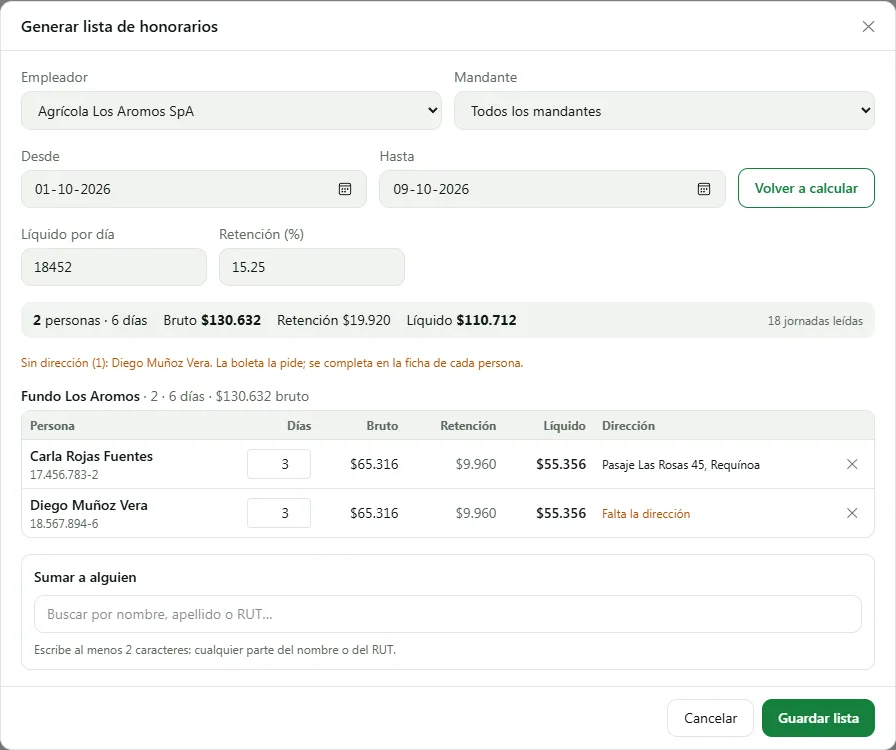
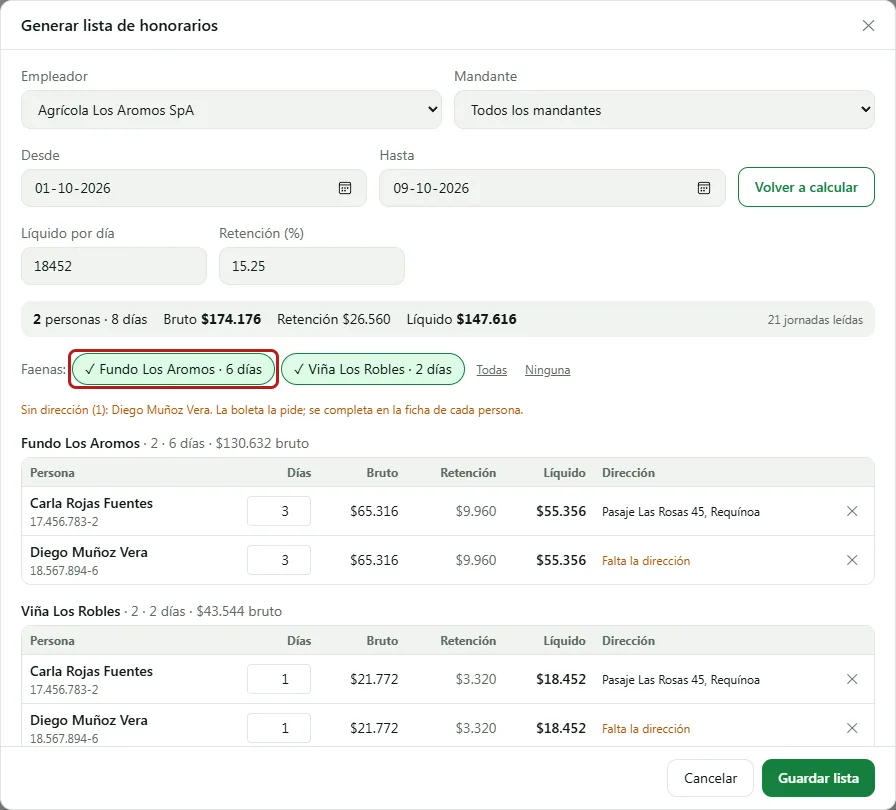
faenaPickerInLists

diff --git a/src/screens/workers/GenerateContributionListModal.jsx b/src/screens/workers/GenerateContributionListModal.jsx
@@ -6,8 +6,9 @@ import { loadWorkedDays } from "../../services/employmentsService";
 import { contributionListsService } from "../../services/contributionListsService";
 import { localIsoDate } from "../../utils/dates";
 import { contributionRows, monthRange } from "../../utils/employment";
-import { buildContributionItems, contributionItemKey, contributionTotals, monthTitle } from "../../utils/contributionLists";
+import { buildContributionItems, contributionItemKey, contributionTotals, contributionsByFaena, monthTitle } from "../../utils/contributionLists";
 import ContributionItemsTable from "./ContributionItemsTable";
+import FaenaPicker from "./FaenaPicker";
 
 const inputCls =
   "w-full rounded-md border border-[var(--color-border)] bg-[var(--color-surface-2)] px-3 py-2 text-sm outline-none focus:border-[var(--color-accent)]";
@@ -21,14 +22,18 @@ function previousMonth(today) {
 // Generar la lista de imposiciones de un mes: quienes tuvieron contrato con el
 // empleador (y el mandante, si se elige uno) ese mes, una fila por faena con
 // sus días trabajados (dentro del período del contrato), y la liquidación con
-// finiquito si el contrato terminó ese mes. Los días se editan, las filas se
-// quitan y se puede sumar a alguien.
+// finiquito si el contrato terminó ese mes. Los días se editan, las filas y
+// las faenas enteras se quitan y se puede sumar a alguien.
 export default function GenerateContributionListModal({ employers, principals, onClose, onSaved }) {
   const { workers } = useWorkersList();
   const [employerId, setEmployerId] = useState("");
   const [principalId, setPrincipalId] = useState("");
   const [month, setMonth] = useState(() => previousMonth(localIsoDate()));
   const [items, setItems] = useState(null);
+  // Las faenas que quedan fuera de la lista (`faenaId`; "" es "Sin días
+  // trabajados").
+  const [excluded, setExcluded] = useState(() => new Set());
+  const shown = items ? items.filter((it) => !excluded.has(it.faenaId || "")) : null;
   const [faenas, setFaenas] = useState([]);
   const [reads, setReads] = useState(0);
   const [adding, setAdding] = useState({ worker: null, faenaId: "", days: 1 });
@@ -72,6 +77,12 @@ export default function GenerateContributionListModal({ employers, principals, o
       endReason: null,
     };
     setItems((list) => [...list.filter((it) => contributionItemKey(it) !== contributionItemKey(item)), item]);
+    setExcluded((prev) => {
+      if (!prev.has(item.faenaId)) return prev;
+      const next = new Set(prev);
+      next.delete(item.faenaId);
+      return next;
+    });
     setAdding({ worker: null, faenaId: "", days: 1 });
   };
 
@@ -82,8 +93,8 @@ export default function GenerateContributionListModal({ employers, principals, o
       principalId,
       principalName: principal?.name || "",
       month,
-      items,
-      totals: contributionTotals(items),
+      items: shown,
+      totals: contributionTotals(shown),
       sentAt: "",
     };
     setBusy("save");
@@ -96,7 +107,7 @@ export default function GenerateContributionListModal({ employers, principals, o
     }
   };
 
-  const totals = items ? contributionTotals(items) : null;
+  const totals = shown ? contributionTotals(shown) : null;
 
   return (
     <Modal
@@ -110,7 +121,7 @@ export default function GenerateContributionListModal({ employers, principals, o
           <ModalCloseButton disabled={!!busy} className="rounded-md border border-[var(--color-border)] px-4 py-2 text-sm hover:bg-[var(--color-surface-2)]">
             Cancelar
           </ModalCloseButton>
-          <button type="button" onClick={save} disabled={!!busy || !items?.length} className="rounded-md bg-[var(--color-accent)] px-4 py-2 text-sm font-medium text-[var(--color-accent-fg)] disabled:opacity-60">
+          <button type="button" onClick={save} disabled={!!busy || !shown?.length} className="rounded-md bg-[var(--color-accent)] px-4 py-2 text-sm font-medium text-[var(--color-accent-fg)] disabled:opacity-60">
             {busy === "save" ? "Guardando…" : "Guardar lista"}
           </button>
         </>
@@ -151,13 +162,18 @@ export default function GenerateContributionListModal({ employers, principals, o
               {totals.settlements > 0 && <span className="text-[var(--color-warning)]">{totals.settlements} con finiquito</span>}
               <span className="ml-auto text-xs text-[var(--color-muted)]">{reads} jornadas leídas</span>
             </div>
+            <FaenaPicker groups={contributionsByFaena(items)} excluded={excluded} onChange={setExcluded} />
             {items.length === 0 ? (
               <p className="rounded-md border border-dashed border-[var(--color-border)] py-6 text-center text-sm text-[var(--color-muted)]">
                 Nadie tuvo contrato con {employer?.name || "ese empleador"}
                 {principal ? ` para ${principal.name}` : ""} en {monthTitle(month)}.
               </p>
+            ) : shown.length === 0 ? (
+              <p className="rounded-md border border-dashed border-[var(--color-border)] py-6 text-center text-sm text-[var(--color-muted)]">
+                Todas las faenas quedaron fuera: elige al menos una.
+              </p>
             ) : (
-              <ContributionItemsTable items={items} editable onChange={change} onRemove={remove} />
+              <ContributionItemsTable items={shown} editable onChange={change} onRemove={remove} />
             )}
             <div className="rounded-md border border-[var(--color-border)] p-3">
               <div className="mb-2 text-sm font-medium">Sumar a alguien</div>

diff --git a/src/screens/workers/GenerateFeeListModal.jsx b/src/screens/workers/GenerateFeeListModal.jsx
@@ -6,8 +6,9 @@ import { loadWorkedDays } from "../../services/employmentsService";
 import { feeListsService, getEmploymentConfig } from "../../services/feeListsService";
 import { localIsoDate } from "../../utils/dates";
 import { feeRows } from "../../utils/employment";
-import { buildFeeListItems, feeItem, feeItemKey, feeListTotals, missingAddress } from "../../utils/feeLists";
+import { buildFeeListItems, feeItem, feeItemKey, feeListTotals, itemsByFaena, missingAddress } from "../../utils/feeLists";
 import { fmtCurrency } from "../../utils/format";
+import FaenaPicker from "./FaenaPicker";
 import FeeItemsTable from "./FeeItemsTable";
 
 const inputCls =
@@ -17,9 +18,9 @@ const monthStart = (today) => `${today.slice(0, 7)}-01`;
 
 // Generar una lista de honorarios: el empleador, el mandante (o todos) y el
 // rango de fechas arman una fila por persona y faena con los días que trabajó
-// a honorarios con ese empleador. Los días se editan, las filas se quitan y se
-// puede sumar a alguien. La tarifa y la retención vienen de la configuración
-// y se pueden cambiar para esta lista.
+// a honorarios con ese empleador. Los días se editan, las filas y las faenas
+// enteras se quitan y se puede sumar a alguien. La tarifa y la retención
+// vienen de la configuración y se pueden cambiar para esta lista.
 export default function GenerateFeeListModal({ employers, principals, onClose, onSaved }) {
   const today = localIsoDate();
   const { workers } = useWorkersList();
@@ -30,6 +31,9 @@ export default function GenerateFeeListModal({ employers, principals, onClose, o
   const [dailyNet, setDailyNet] = useState("");
   const [ratePct, setRatePct] = useState("");
   const [items, setItems] = useState(null);
+  // Las faenas que quedan fuera de la lista (`faenaId`).
+  const [excluded, setExcluded] = useState(() => new Set());
+  const shown = items ? items.filter((it) => !excluded.has(it.faenaId || "")) : null;
   const [faenas, setFaenas] = useState([]);
   const [reads, setReads] = useState(0);
   const [adding, setAdding] = useState({ worker: null, faenaId: "", days: 1 });
@@ -88,11 +92,17 @@ export default function GenerateFeeListModal({ employers, principals, onClose, o
       rate,
     );
     setItems((list) => [...list.filter((it) => feeItemKey(it) !== feeItemKey(item)), item]);
+    setExcluded((prev) => {
+      if (!prev.has(item.faenaId)) return prev;
+      const next = new Set(prev);
+      next.delete(item.faenaId);
+      return next;
+    });
     setAdding({ worker: null, faenaId: "", days: 1 });
   };
 
   const save = async () => {
-    const kept = items.filter((it) => it.days > 0);
+    const kept = shown.filter((it) => it.days > 0);
     const data = {
       employerId,
       employerName: employer?.name || "",
@@ -116,8 +126,8 @@ export default function GenerateFeeListModal({ employers, principals, onClose, o
     }
   };
 
-  const totals = items ? feeListTotals(items) : null;
-  const noAddress = items ? missingAddress(items) : [];
+  const totals = shown ? feeListTotals(shown) : null;
+  const noAddress = shown ? missingAddress(shown) : [];
   const ready = employerId && from && to && from <= to && net > 0;
 
   return (
@@ -135,7 +145,7 @@ export default function GenerateFeeListModal({ employers, principals, onClose, o
           <button
             type="button"
             onClick={save}
-            disabled={!!busy || !items?.some((it) => it.days > 0)}
+            disabled={!!busy || !shown?.some((it) => it.days > 0)}
             className="rounded-md bg-[var(--color-accent)] px-4 py-2 text-sm font-medium text-[var(--color-accent-fg)] disabled:opacity-60"
           >
             {busy === "save" ? "Guardando…" : "Guardar lista"}
@@ -195,6 +205,7 @@ export default function GenerateFeeListModal({ employers, principals, onClose, o
               <span>Líquido <b>{fmtCurrency(totals.net)}</b></span>
               <span className="ml-auto text-xs text-[var(--color-muted)]">{reads} jornadas leídas</span>
             </div>
+            <FaenaPicker groups={itemsByFaena(items)} excluded={excluded} onChange={setExcluded} />
             {noAddress.length > 0 && (
               <p className="text-xs text-[var(--color-warning)]">
                 Sin dirección ({noAddress.length}): {noAddress.join(", ")}. La boleta la pide; se completa en la ficha de cada persona.
@@ -205,8 +216,12 @@ export default function GenerateFeeListModal({ employers, principals, onClose, o
                 Nadie trabajó a honorarios con {employer?.name || "ese empleador"}
                 {principal ? ` para ${principal.name}` : ""} en esas fechas.
               </p>
+            ) : shown.length === 0 ? (
+              <p className="rounded-md border border-dashed border-[var(--color-border)] py-6 text-center text-sm text-[var(--color-muted)]">
+                Todas las faenas quedaron fuera: elige al menos una.
+              </p>
             ) : (
-              <FeeItemsTable items={items} mode="draft" onChange={change} onRemove={remove} />
+              <FeeItemsTable items={shown} mode="draft" onChange={change} onRemove={remove} />
             )}
             <div className="rounded-md border border-[var(--color-border)] p-3">
               <div className="mb-2 text-sm font-medium">Sumar a alguien</div>

diff --git a/src/screens/workers/FaenaPicker.jsx b/src/screens/workers/FaenaPicker.jsx
@@ -1,0 +1,43 @@
+// Las faenas de una lista que se está generando: cada una se saca o se vuelve
+// a poner de un toque, sin perder lo editado en sus filas. `groups` son los
+// grupos por faena de la lista entera y `excluded`, los ids de las que quedan
+// fuera ("" es el grupo sin faena).
+export default function FaenaPicker({ groups, excluded, onChange }) {
+  if (groups.length < 2) return null;
+  const toggle = (id) => {
+    const next = new Set(excluded);
+    if (next.has(id)) next.delete(id);
+    else next.add(id);
+    onChange(next);
+  };
+  const link = "min-h-8 px-1.5 text-xs text-[var(--color-muted)] underline hover:text-[var(--color-fg)]";
+  return (
+    <div className="flex flex-wrap items-center gap-1.5 text-sm">
+      <span className="text-[var(--color-muted)]">Faenas:</span>
+      {groups.map((g) => {
+        const on = !excluded.has(g.faenaId);
+        return (
+          <button
+            key={g.faenaId}
+            type="button"
+            aria-pressed={on}
+            onClick={() => toggle(g.faenaId)}
+            className={`min-h-8 rounded-full border px-3 py-1 ${
+              on
+                ? "border-[var(--color-accent)] bg-[var(--color-accent-soft)]"
+                : "border-[var(--color-border)] text-[var(--color-muted)] line-through"
+            }`}
+          >
+            {on ? "✓" : "✕"} {g.faenaName} · {g.totals.days} día{g.totals.days === 1 ? "" : "s"}
+          </button>
+        );
+      })}
+      <button type="button" onClick={() => onChange(new Set())} className={link}>
+        Todas
+      </button>
+      <button type="button" onClick={() => onChange(new Set(groups.map((g) => g.faenaId)))} className={link}>
+        Ninguna
+      </button>
+    </div>
+  );
+}

diff --git a/src/screens/help/guides.test.js b/src/screens/help/guides.test.js
@@ -102,6 +102,8 @@ describe("preguntas típicas", () => {
     ["cómo hago las boletas de honorarios", "contratos#generar-la-lista-de-honorarios"],
     ["anotar el folio de la boleta", "contratos#anotar-las-boletas-emitidas"],
     ["cómo hago las imposiciones", "contratos#generar-la-lista-de-imposiciones-del-mes"],
+    ["honorarios de una sola faena", "contratos#generar-la-lista-de-honorarios"],
+    ["imposiciones de una sola faena", "contratos#generar-la-lista-de-imposiciones-del-mes"],
     ["mandar las imposiciones al contador", "contratos#enviar-las-imposiciones-al-contador"],
     ["olvidé mi contraseña", "primeros-pasos#entrar-a-terra"],
     ["cómo pongo el modo oscuro", "primeros-pasos#cambiar-los-colores"],

diff --git a/docs/screens/workers.md b/docs/screens/workers.md
@@ -40,7 +40,7 @@
 ## Listas de honorarios
 
 - **Pestaña 🧾 Honorarios** (`screens/workers/FeeListsTab.jsx`): las listas generadas (`feeLists`), de la más nueva a la más antigua, con cuántas boletas lleva emitidas cada una.
-- **+ Generar lista** (`GenerateFeeListModal`): el empleador, el mandante (o todos) y el rango arman una fila por persona y faena con los días que trabajó a honorarios con ese empleador, en los períodos de ese mandante (`feeRows`, `utils/employment.js`). La lista guarda el mandante y se nombra con el empleador y el mandante (`listCompanyLabel`), también en el Excel. Los días se editan, las filas se quitan y se puede sumar a alguien con su faena. Avisa a quién le falta la dirección, que la boleta pide.
+- **+ Generar lista** (`GenerateFeeListModal`): el empleador, el mandante (o todos) y el rango arman una fila por persona y faena con los días que trabajó a honorarios con ese empleador, en los períodos de ese mandante (`feeRows`, `utils/employment.js`). La lista guarda el mandante y se nombra con el empleador y el mandante (`listCompanyLabel`), también en el Excel. Los días se editan, las filas se quitan y se puede sumar a alguien con su faena. Con varias faenas, **Faenas** (`FaenaPicker`) saca o vuelve a poner una faena entera, con Todas y Ninguna; lo que se guarda y los totales son las faenas que quedan. Avisa a quién le falta la dirección, que la boleta pide.
   - **Los días salen de las jornadas** (`loadWorkedDays`, `services/employmentsService.js`): un día cuenta si hay al menos una jornada, y un día con jornadas en dos faenas cuenta una vez, en la de mayor monto (`workedDays`). Solo cuentan los días dentro del período de honorarios de la persona. Las jornadas antiguas sin `workerId` se cruzan por su rut, también uno anterior (`workerIdResolver`, `utils/workerRut.js`).
   - **Cuesta una lectura por jornada del rango**, como el Calendario; el modal dice cuántas leyó.
 - **Montos**: tarifa líquida fija por día y retención (`employmentConfig/main`, por defecto $18.452 y 15,25%; ⚙ Tarifa, solo admin). El bruto por día se redondea y se multiplica, como la planilla: 3 días dan $65.316 bruto y $55.356 líquido (`feeAmounts`). La tarifa se puede cambiar para una lista, y cada lista guarda la suya.
@@ -49,7 +49,7 @@
 ## Listas de imposiciones
 
 - **Pestaña 🏛 Imposiciones** (`screens/workers/ContributionListsTab.jsx`): las listas generadas (`contributionLists`), una por empleador y mes, con si se enviaron al contador.
-- **+ Generar lista** (`GenerateContributionListModal`, propone el mes anterior): quienes tuvieron contrato con el empleador ese mes (y con el mandante, si se elige uno; la lista lo guarda), una fila por faena (el centro de costo) con sus días trabajados dentro del período del contrato (`contributionRows`, `utils/employment.js`; los días salen igual que en honorarios, con `loadWorkedDays`). Quien tuvo contrato y no trabajó va en "Sin días trabajados" con 0 días. Si el contrato terminó ese mes, la fila pide liquidación y finiquito, con la fecha y el motivo. Los días se editan, las filas se quitan y se puede sumar a alguien.
+- **+ Generar lista** (`GenerateContributionListModal`, propone el mes anterior): quienes tuvieron contrato con el empleador ese mes (y con el mandante, si se elige uno; la lista lo guarda), una fila por faena (el centro de costo) con sus días trabajados dentro del período del contrato (`contributionRows`, `utils/employment.js`; los días salen igual que en honorarios, con `loadWorkedDays`). Quien tuvo contrato y no trabajó va en "Sin días trabajados" con 0 días. Si el contrato terminó ese mes, la fila pide liquidación y finiquito, con la fecha y el motivo. Los días se editan, las filas se quitan, se puede sumar a alguien y se dejan solo algunas faenas (`FaenaPicker`, como en honorarios).
 - **Solo los días**: sueldo y bono los completa el contador; el Excel los deja en blanco.
 - **Una lista guardada** (`ContributionListModal`, con las filas en `ContributionItemsTable`): se baja en 📊 Excel (`writeContributionListXlsx.js`, una sección por faena como la planilla) y se marca enviada al contador con la fecha del día. Una lista sin enviar se puede eliminar. Las filas y los totales salen de `utils/contributionLists.js`, con tests.
 

diff --git a/src/screens/help/guides/contratos.md b/src/screens/help/guides/contratos.md
@@ -87,16 +87,16 @@ En la grilla del ciclo, **Por contrato** junta a las personas en **Con contrato*
 ![La grilla por contrato](help/contratos/09-grilla-por-contrato.webp)
 
 ## Generar la lista de honorarios
-<!-- preguntas: cómo hago las boletas de honorarios; lista de boletas; cuánto pagar a honorarios; calcular los honorarios; nómina de honorarios -->
+<!-- preguntas: cómo hago las boletas de honorarios; lista de boletas; cuánto pagar a honorarios; calcular los honorarios; nómina de honorarios; honorarios de una sola faena -->
 
 1. En **🧾 Honorarios**, toca **+ Generar lista**.
 2. Elige el **Empleador**, el **Mandante** (o **Todos los mandantes**) y las fechas (**Desde** y **Hasta**; vienen del primero del mes a hoy), y toca **Calcular días**.
 3. TeRRa arma una fila por persona y faena con los días que trabajó a honorarios con ese empleador y, si elegiste uno, para ese mandante. Un día cuenta si tiene al menos una jornada, y un día con jornadas en dos faenas cuenta una sola vez.
-4. Corrige los **Días**, quita a alguien con **✕** o súmalo en **Sumar a alguien**.
+4. Corrige los **Días**, quita a alguien con **✕** o súmalo en **Sumar a alguien**. Si hay varias faenas, en **Faenas** toca las que no van para sacarlas de la lista (otro toque las vuelve a poner). Para quedarte con unas pocas, toca **Ninguna** y después las que sí.
 5. Revisa el aviso **Sin dirección**: la boleta la pide, y se completa en la ficha de cada persona.
 6. Toca **Guardar lista**.
 
-![Una lista de honorarios recién calculada](help/contratos/10-generar-honorarios.webp)
+![Una lista de honorarios recién calculada, con sus dos faenas](help/contratos/10-generar-honorarios.webp)
 
 **Los montos**: cada día se paga un **Líquido por día** fijo, y la boleta retiene un porcentaje (**Retención**). El bruto es lo que va en la boleta. Por ejemplo, 3 días a $18.452 son $55.356 líquidos y $65.316 brutos. La tarifa se puede cambiar para una lista; la de siempre la cambia un admin en **⚙ Tarifa**.
 
@@ -112,12 +112,12 @@ Al guardarla, la lista se abre. Escribe el **Folio** de cada boleta emitida (que
 - Una lista sin boletas emitidas se puede eliminar con **🗑 Eliminar lista**.
 
 ## Generar la lista de imposiciones del mes
-<!-- preguntas: cómo hago las imposiciones; lista para el contador; días imponibles; imposiciones del mes; pedir las liquidaciones -->
+<!-- preguntas: cómo hago las imposiciones; lista para el contador; días imponibles; imposiciones del mes; pedir las liquidaciones; imposiciones de una sola faena -->
 
 1. En **🏛 Imposiciones**, toca **+ Generar lista**.
 2. Elige el **Empleador**, el **Mandante** (o **Todos los mandantes**) y el **Mes** (viene el mes anterior), y toca **Calcular días**.
 3. TeRRa arma una fila por persona y faena con los días que trabajó dentro de su contrato. Con un mandante, entran solo los contratos de ese mandante. Si el contrato terminó ese mes, la fila pide **Liquidación + finiquito**, con la fecha y el motivo; si no, **Liquidación**. Quien tuvo contrato y no trabajó va en **Sin días trabajados**.
-4. Corrige los días, quita o suma a alguien, y toca **Guardar lista**.
+4. Corrige los días, quita o suma a alguien, y deja en **Faenas** solo las que van, igual que en honorarios. Toca **Guardar lista**.
 
 ![Una lista de imposiciones](help/contratos/12-generar-imposiciones.webp)
 
